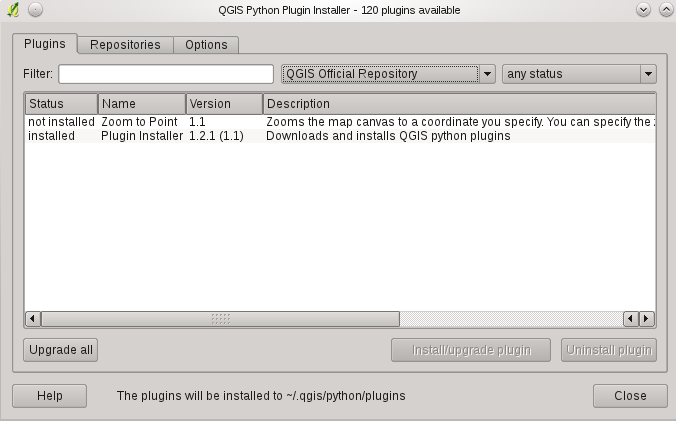
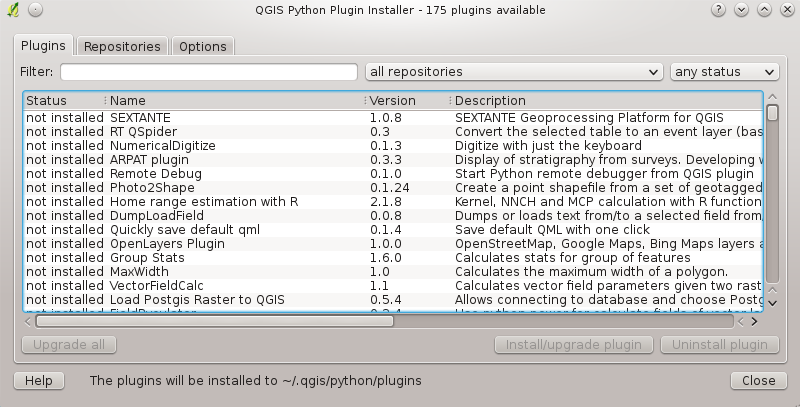
update plugin section

Changed region(s): [[0.0, 0.0, 0.9941, 0.973], [0.8698, 0.0, 1.0, 0.059]]

diff --git a/source/docs/user_manual/plugins/plugins.rst b/source/docs/user_manual/plugins/plugins.rst
@@ -97,35 +97,36 @@ plugins are automatically loaded.
 Loading an external QGIS Plugin
 --------------------------------
 
-
 External QGIS plugins are written in Python. They are by default stored in 
-either the 'Official' or 'User contributed' QGIS Repositories, or in various 
-other external repositories maintained by individual authors. These lists are 
-available automatically from the :guilabel:`Python Plugin installer` 
-via :menuselection:`Fetch Python Plugins...`.
+either the 'Official' QGIS Repository, or in various other external repositories 
+maintained by individual authors. The 'Official' QGIS Repository is available 
+automatically from the :guilabel:`Python Plugin installer` via 
+:menuselection:`Fetch Python Plugins...`.
 
 Detailed documentation about the usage, minimum QGIS version, homepage, authors,
-and other important information are provided with the external plugins themselves
-and is not included in this manual [#]_ [#]_. 
+and other important information are provided for the 'Official' QGIS Repository 
+at http://plugins.qgis.org/plugins/. For other external repositories, they might 
+be available with the external plugins themselves. In general it is not included 
+in this manual [#]_ [#]_. 
 
-Currently (at the time of testing version 1.8 of QGIS) there are over 90 
-external plugins available from thirteen listed repositories. Some of these 
-plugins offer functionality that will be required by many users (for example: 
-providing the user with the ability to view and edit OpenStreetMap data, or to 
-add GoogleMap layers) while others offer very specialized functions (for 
-example: Calculate economic pipe diameters for water supply networks).
+Currently there are over 150 external plugins available from the 'Official' 
+QGIS Repository. Some of these plugins offer functionality that will be 
+required by many users (for example: providing the user with the ability to 
+view and edit OpenStreetMap data, or to add GoogleMap layers) while others offer 
+very specialized functions (for example: Calculate economic pipe diameters for 
+water supply networks).
 
 It is, however, quite straightforward to search through all the available 
 external plugins by providing keywords, choosing a named repository and/or 
 filtering on the status of plugins (currently installed or uninstalled in your 
-system). Searching and filtering is done from the QGIS Python Plugin Installer (see figure_plugins_2_).
+system). Searching and filtering is done from the QGIS Python Plugin Installer 
+(see figure_plugins_2_).
 
 .. tip:: **Add more repositories**
    
-   To add the 'User contributed' repository and/or several external author 
-   repositories, open the Plugin Installer 
+   To add external author repositories, open the Plugin Installer 
    (:menuselection:`Plugins --> Fetch Python Plugins`), go to the tab 
-   :guilabel:`Repositories`, and click **[Add 3rd party repositories]**.
+   :guilabel:`Repositories`, and click **[Add]**.
    If you do not want one or more of the added repositories, they can be 
    disabled via the **[Edit...]** button, or completely removed with the 
    **[Delete]** button.
@@ -275,6 +276,6 @@ By default, QGIS supports PostGIS layers and disk-based data stores supported by
 Data Provider plugins are registered automatically by QGIS at startup.
 They are not managed by the Plugin Manager but used behind the scenes when a data type is added as a layer in QGIS.
 
-.. [#] Updates of core plugins may be available in this repository as external overlays.
+.. [#] Updates of core python plugins may be available in this repository as external overlays.
 
 .. [#] fTools, Mapserver Export, and the Plugin Installer are Python plugins, but they are also part of the QGIS sources, and are automatically loaded and enabled inside the QGIS Plugin Manager (see Section :ref:`load_external_plugin`).
